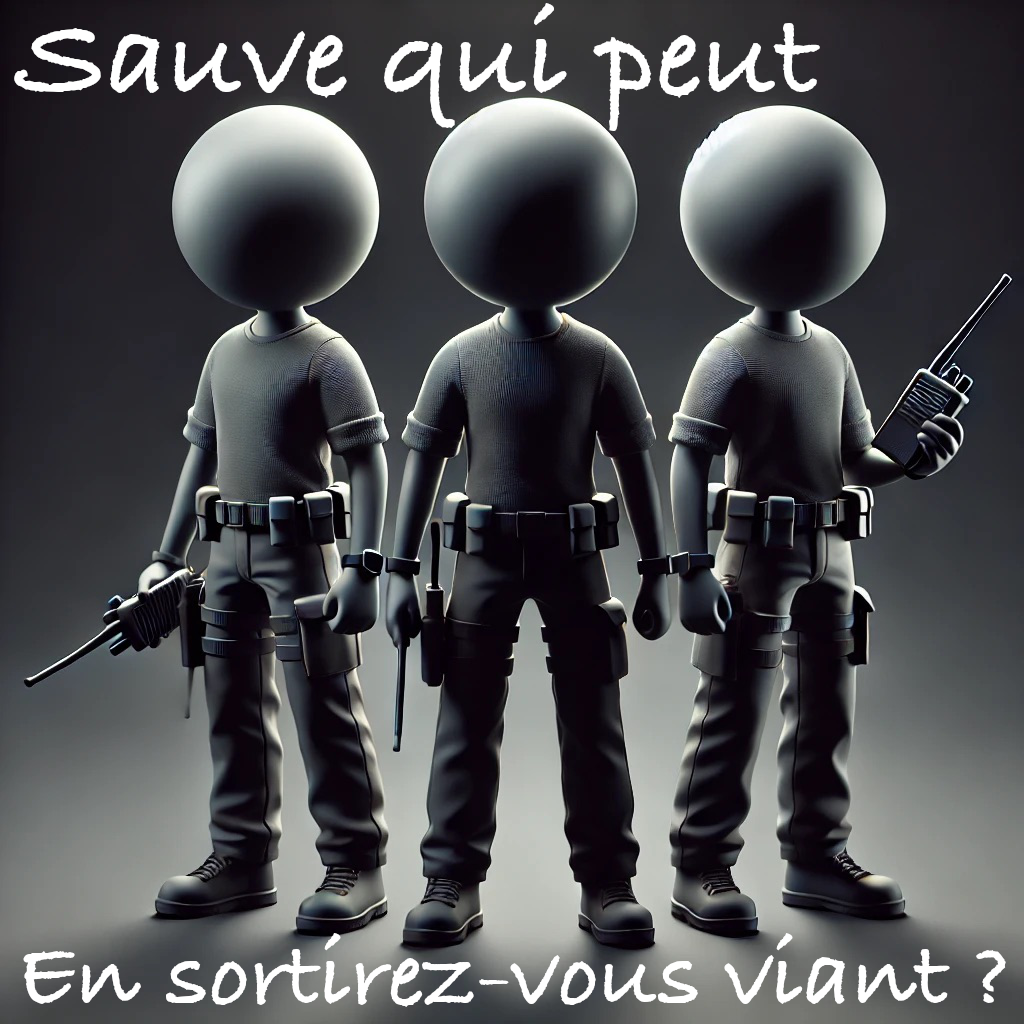
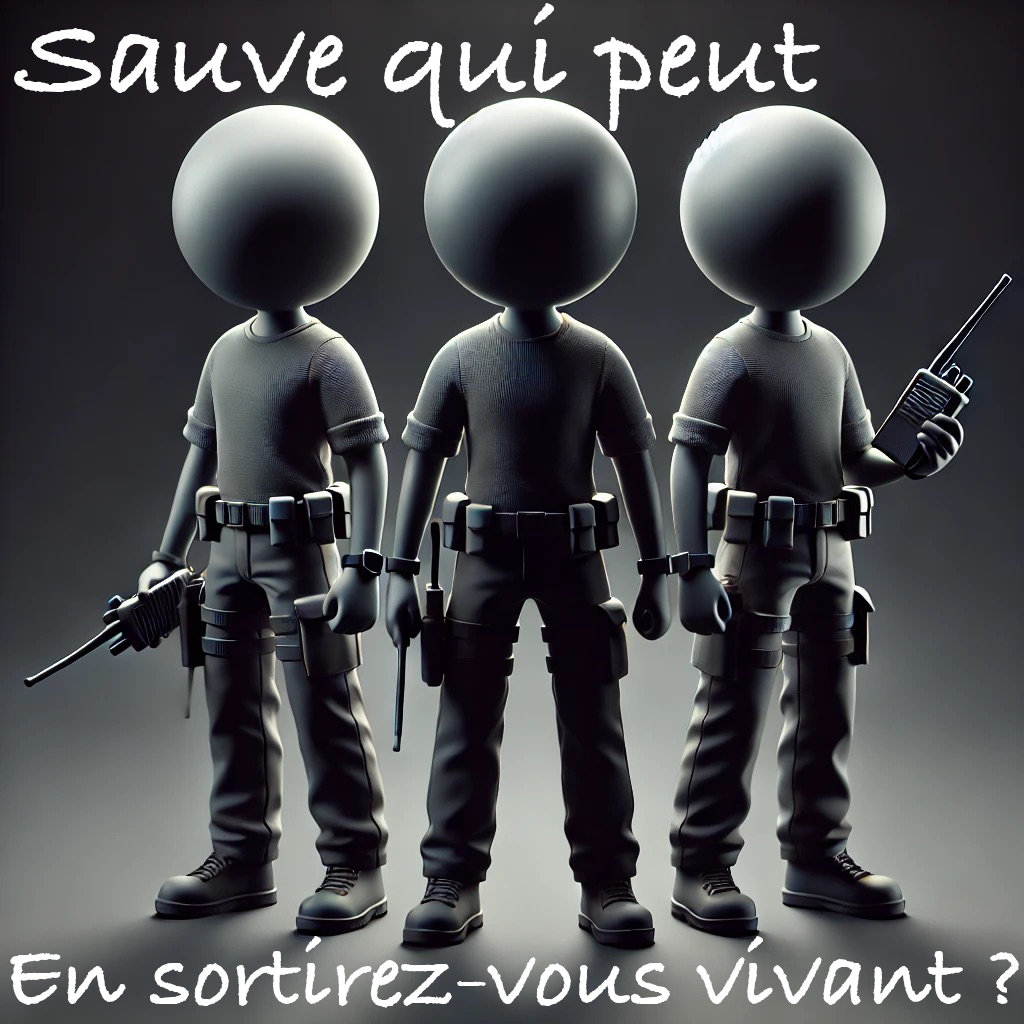
Fix typo and remove initial repo fork requirements

Changed region(s): [[0.0, 0.9062, 1.0, 1.0]]

diff --git a/README.md b/README.md
@@ -13,15 +13,17 @@ Rien à signaler pour l'instant
 
 ## Changements
 
+* `Tue Nov 26 09:42:09 CET 2024`: Plus besoin de faire un fork (car cela ne serait plus possible de le rendre privé);
+  vous pouvez partir d'un dépôt vierge. N'oubliez pas de m'en donner l'accès au moins en lecture (CI incluse).
+* `Sun Nov 17 23:16:30 CET 2024`: Le processus d'enregistrement des équipes et des joueurs est stabilisé.
+* `Wed Nov 13 22:15:28 CET 2024`: Les indices `Hint` sont désormais actifs
 * `Wed Nov 13 22:15:28 CET 2024`: `ActionError` remplace `ActionResult`. Un mouvement légal n'est pas suivi d'un message
   de validation. C'est la
   prochaine vue qui est immédiatement envoyée.
-* `Wed Nov 13 22:15:28 CET 2024`: Les indices `Hint` sont désormais actifs
-* `Sun Nov 17 23:16:30 CET 2024`: Le processus d'enregistrement des équipes et des joueurs est stabilisé.
 
 * Notez que des variantes sont en approche:
     * Pour l'instant, la cible est toujours en bas à droite, cela changera bientôt...
-  
+
     * Pour l'instant, dès qu'un joueur est inscrit il participe à la partie. A terme, il faudra attendre l'inscription
       complète de l'équipe pour que le jeu démarre.
 
@@ -49,7 +51,7 @@ Rien à signaler pour l'instant
 
 1. Le serveur démarre en attente d'équipes pour jouer
 2. Chaque équipe se connecte au serveur et s'enregistre avec un nom unique.
-3. Le serveur vous renvoie le nombre de joueurs à fournir pour chaque équipe 
+3. Le serveur vous renvoie le nombre de joueurs à fournir pour chaque équipe
    et un code d'accès avec lequel les joueurs pourront s'inscrire.
 4. Les membres se connectent avant le timeout avec le code d'accès de l'équipe
 
@@ -128,8 +130,8 @@ Score = nombre_de_mouvements / nb_de_participants
 * Le code doit remis sous Git (github ou gitlab) **avec** une archive déposée dans MyGES (c'est cette archive qui fait
   foi en cas de litige).
 
-  Le projet Git devra être créé à partir d'un *fork* du projet portant le sujet (et n'oubliez pas de m'en donner l'accès
-  en lecture).
+  Vous n'êtes plus obligés de démarrer votre projet depuis un *fork* du dépôt du sujet, mais soyez vigilant aux
+  mises-à-jour de celui-ci (et n'oubliez pas de m'y donner accès).
 
 * Le code doit être fonctionnel sous Linux, macOS et Windows
 
@@ -179,11 +181,12 @@ Le jour de la soutenance orale, vous serez évalués sur:
 * Vous aurez aussi une modification, un petit développement à faire en live sur votre code pendant la soutenance.
 
 Le barème suit le principe de notation du règlement intérieur ESGI:
-  * 0 à 4 : Écarts critiques par rapport aux objectifs
-  * 5 à 9 : Écarts majeurs par rapport aux objectifs
-  * 10 à 12 : Objectifs globalement atteints avec des écarts mineurs
-  * 13 à 15 : Ensemble des objectifs atteints
-  * 16 à 20 : Objectifs dépassés
+
+* 0 à 4 : Écarts critiques par rapport aux objectifs
+* 5 à 9 : Écarts majeurs par rapport aux objectifs
+* 10 à 12 : Objectifs globalement atteints avec des écarts mineurs
+* 13 à 15 : Ensemble des objectifs atteints
+* 16 à 20 : Objectifs dépassés
 
 ## Bonus possibles:
 
